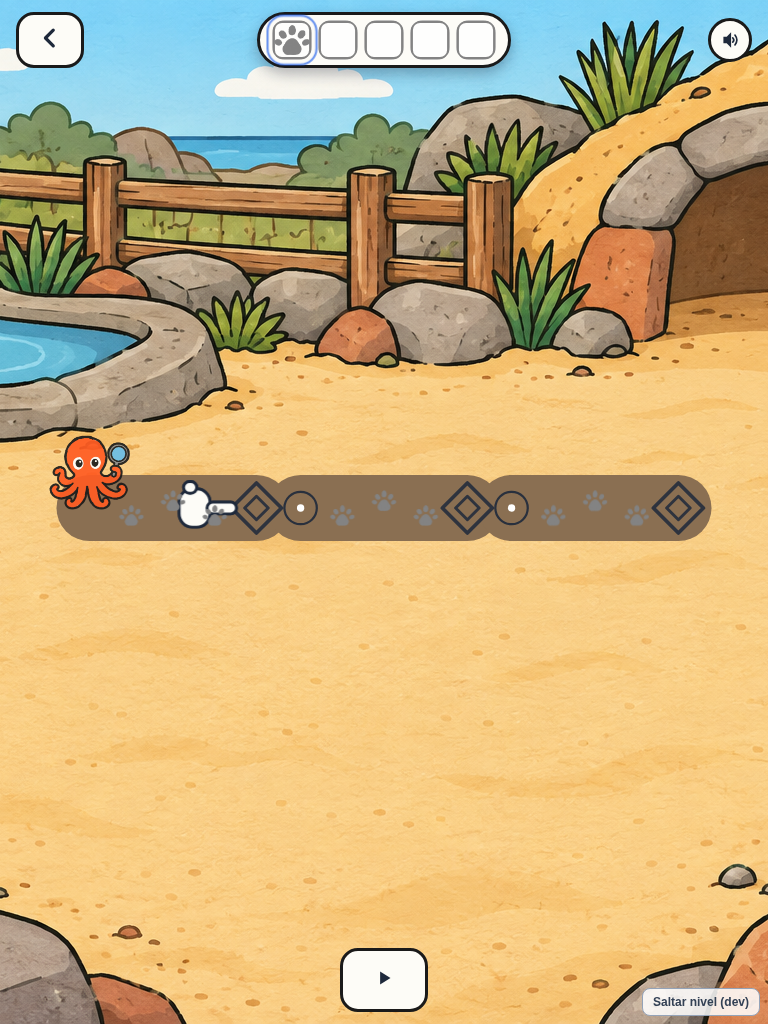
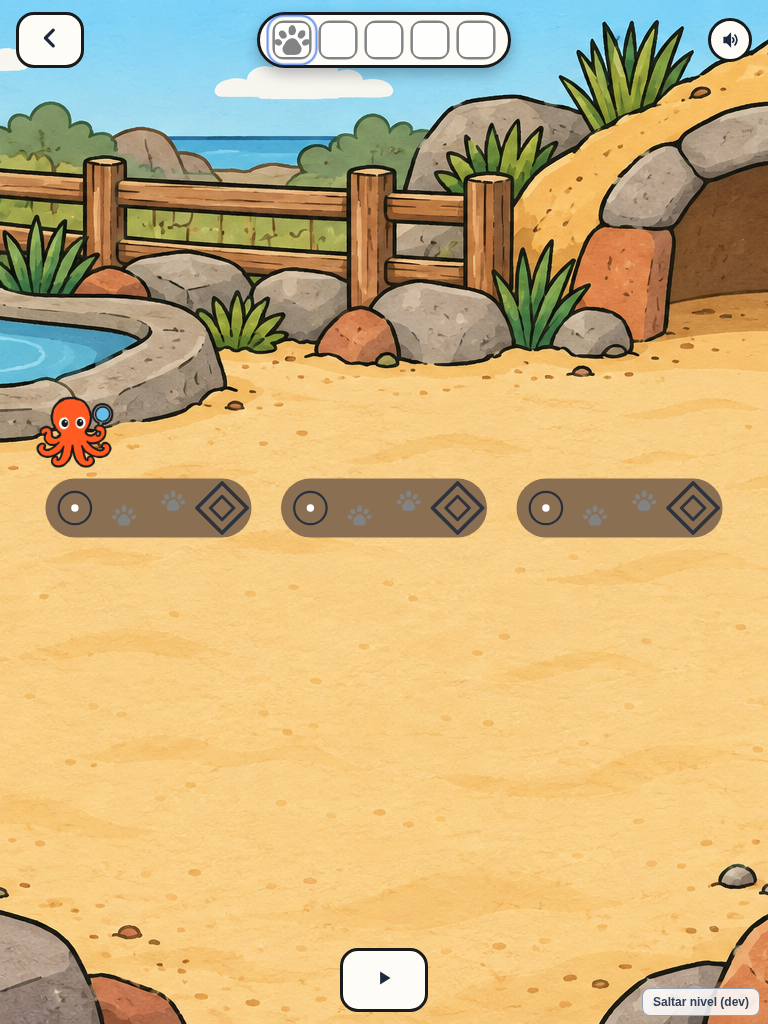
docs(t45): octopus, furrow and ink follow-up; sheep comparison captures and swap steps

Changed region(s): [[0.0312, 0.375, 0.9375, 0.5312]]

diff --git a/odd/tasks/prewriting-stage-completion.md b/odd/tasks/prewriting-stage-completion.md
@@ -158,7 +158,7 @@ The T37 full-journey audit was cut off before its report (183 screenshots in `ca
 | ID | Task | Branch | Status | Evidence |
 |---|---|---|---|---|
 | T44 | docs/21 N1–N4 inside existing cases: duck bridges ∩ with puddles, night trail without walls lit by the flashlight (hedgehog prints C7), fish loops going down (scales), monkey loop+garland in one stroke (banana peel C11) | `feat/new-clue-levels` | in progress | |
-| T45 | docs/21 N5–N6 new cases: sheep fence posts (vertical strokes, wool C9) + "¿Quién deja lana?"; turtle straight line with stops (turtle prints C10) + "¿De quién es esta huella?" comparing prints. Placeholder art until C9/C10 arrive | `feat/new-cases` | done | `94c9156` (code) + docs/captures commit, not merged/pushed. Route: delegated writer. **Engine, segment levels** (`levels/segments.ts`, `LevelConfig.segments`): every path is its own stroke; the release that lands within `startReach` (70) of a segment's start dot, keeps ≥85% of its samples inside the corridor, reaches the end and LIFTS within `stopReach` (55) of the stop completes that segment, latched (`settleSegmentRelease`); approval reads the latch (`releaseOutcome.segments`, the T39 pattern: every segment but the last releases unapproved and clear-on-failed-retry empties the buffer). Only completed strokes stay as ink; a rejected one stays until the next touch clears it. Clue marks per segment (`segmentClueMarks`/`segmentClueState`, `ClueMark.route`) light when their segment is done. `TraceCanvas.routeMarkers`: green start dot + the goal's hollow diamonds per segment (the octopus stands on the first start); no single goal/lamp. `resetOnContact: false`, no hazards (the stop IS the inhibition task; T41's "no hazard on a clue trail / first level" rules stay intact). **Levels**: `sheep-lana` (phase 1, 5 posts x 150→850, y 130→470, corridor 90, one wool per post) before `sheep-hill1`; `turtle-huellas` (phase 2, one furrow x 100→900 at y 300 cut into 3 stretches with 60-unit gaps, corridor 90, prints alternating on both sides) before `turtle1`. Both `enforceOrder: true`, `mustBeContinuous: false` (the phase-2 continuity guard now exempts segment levels), rail off (first contact stays `sheep-hill1`), demo on. **Cases**: `sheep` (form `rescued-silhouettes`, `question` "¿Quién deja lana?", oveja/gato/pato, `ruledOutBy {gato: wool}`, pato rescued; `resolveSheepCase` swaps to "El pato tiene plumas, no lana" if the duck is not rescued yet) and `turtles` (form `prints`, "¿De quién es esta huella?", tortuga/pato/gallina with `optionArt` = turtle print / webfoot C3 / `huella negra` footprint; pato/gallina take the fish case's `rescuedDistractors` exemption, hints say why each print differs). `DetectiveCase.form` on every case; `Deduction` opens with `kase.question`. Adventures recipe A (`deduction.after` = the new level), sectors/JOURNEY entry ids moved to the new levels, intros "Alguien dejó lana enganchada en el alambrado de la ladera. ¿Vamos a ver?" / "Alguien dejó huellas y un surco en la arena. ¿Las seguimos?" (closings unchanged; the notebook shows animals only, unchanged). **Deduction-kind rule** (`zoo/journey.test.ts`): no two NEIGHBOURING journey stops share a form ("seguidas" read as the old rule's "ninguno pegado a otro"); forms in order new → rescued (sheep) → rescued (night, two stops later, llama between) → signs → prints → rescued; the only neighbouring deducing pairs are duck/sheep and turtles/monkeys. **Flag for the author**: sheep and night are consecutive DEDUCTIONS of the same form with the llama between; docs/21 §6's own order elided the night. docs/19 §2.3 table updated. **Placeholders** (`PLACEHOLDER_CLUE_ART`): `wool` borrows the bread crumb pair, `turtlePrint` the hedgehog print pair (both lit/unlit pairs, no pipeline change); `artManifest.test.ts` fails once `pista lana.png`/`pista huella de tortuga.png` exist in `art-source/` while still listed; swap = two `SINGLES` rows + `AUTHORED_SOURCE_SIZES`, run `build_art.py`, replace `WOOL_CLUE_ART`/`TURTLE_PRINT_CLUE_ART` (docs/22 §5.8). **Migration** `migrateNewCases` (after T40's in `openProgressStore`): a filed `sheep-hill1`/`turtle1` seeds `sheep-lana`/`turtle-huellas` (`seedFrom`) and `sheep-deduce`/`turtles-deduce`; idempotent, copy-forward. **Tests**: `levels/segments.test.ts` (judge: direction, stop, overshoot, corridor, reach; latch; generators; both shipped levels: child-like wobbly strokes in random order ≥95% accepted, run-through and scribble rejected, marks per segment), `migrateNewCases.test.ts`, `cases.test.ts` (both cases, every case solvable with a line per wrong pick, question), `journey.test.ts` (rule + order), `levelCompletion.test.ts` + `LevelPlay.test.tsx` (approval only on the last segment; markers per segment), hint guard (`lana`, `huella` → turtlePrint). Checks: `npx vitest run --maxWorkers=2` 112 files / 3084 passed (`artHierarchy`'s 40 s sector test timed out once under load avg ~32, passes alone); `npm run build` exit 0; `git diff --check main...HEAD` clean. **Browser** (Playwright + system chromium `--disable-gpu`, `?dev&nivel=`, no console errors), `capturas/2026-10-02-t45/`: both levels 1024x768 before / wrong-way stroke released (nothing lit) / first segment done (its marks lit) / run past the stop (stays open) / all but last / last done (✓) / advanced into the deduction; 768x1024 before and two segments done; both deductions open, wrong picks (sheep: gato, pato with the not-rescued line since `?dev` has no progress; turtles: pato), solved; both intros at both sizes. Open: the turtle sector's brown channel makes the mud ink faint (same on `turtle1..4`, not changed); the placeholders are not wool/turtle prints. |
+| T45 | docs/21 N5–N6 new cases: sheep fence posts (vertical strokes, wool C9) + "¿Quién deja lana?"; turtle straight line with stops (turtle prints C10) + "¿De quién es esta huella?" comparing prints. Placeholder art until C9/C10 arrive | `feat/new-cases` | done | `94c9156` (code) + docs/captures commit, not merged/pushed. Route: delegated writer. **Engine, segment levels** (`levels/segments.ts`, `LevelConfig.segments`): every path is its own stroke; the release that lands within `startReach` (70) of a segment's start dot, keeps ≥85% of its samples inside the corridor, reaches the end and LIFTS within `stopReach` (55) of the stop completes that segment, latched (`settleSegmentRelease`); approval reads the latch (`releaseOutcome.segments`, the T39 pattern: every segment but the last releases unapproved and clear-on-failed-retry empties the buffer). Only completed strokes stay as ink; a rejected one stays until the next touch clears it. Clue marks per segment (`segmentClueMarks`/`segmentClueState`, `ClueMark.route`) light when their segment is done. `TraceCanvas.routeMarkers`: green start dot + the goal's hollow diamonds per segment (the octopus stands on the first start); no single goal/lamp. `resetOnContact: false`, no hazards (the stop IS the inhibition task; T41's "no hazard on a clue trail / first level" rules stay intact). **Levels**: `sheep-lana` (phase 1, 5 posts x 150→850, y 130→470, corridor 90, one wool per post) before `sheep-hill1`; `turtle-huellas` (phase 2, one furrow x 100→900 at y 300 cut into 3 stretches with 60-unit gaps, corridor 90, prints alternating on both sides) before `turtle1`. Both `enforceOrder: true`, `mustBeContinuous: false` (the phase-2 continuity guard now exempts segment levels), rail off (first contact stays `sheep-hill1`), demo on. **Cases**: `sheep` (form `rescued-silhouettes`, `question` "¿Quién deja lana?", oveja/gato/pato, `ruledOutBy {gato: wool}`, pato rescued; `resolveSheepCase` swaps to "El pato tiene plumas, no lana" if the duck is not rescued yet) and `turtles` (form `prints`, "¿De quién es esta huella?", tortuga/pato/gallina with `optionArt` = turtle print / webfoot C3 / `huella negra` footprint; pato/gallina take the fish case's `rescuedDistractors` exemption, hints say why each print differs). `DetectiveCase.form` on every case; `Deduction` opens with `kase.question`. Adventures recipe A (`deduction.after` = the new level), sectors/JOURNEY entry ids moved to the new levels, intros "Alguien dejó lana enganchada en el alambrado de la ladera. ¿Vamos a ver?" / "Alguien dejó huellas y un surco en la arena. ¿Las seguimos?" (closings unchanged; the notebook shows animals only, unchanged). **Deduction-kind rule** (`zoo/journey.test.ts`): no two NEIGHBOURING journey stops share a form ("seguidas" read as the old rule's "ninguno pegado a otro"); forms in order new → rescued (sheep) → rescued (night, two stops later, llama between) → signs → prints → rescued; the only neighbouring deducing pairs are duck/sheep and turtles/monkeys. **Flag for the author**: sheep and night are consecutive DEDUCTIONS of the same form with the llama between; docs/21 §6's own order elided the night. docs/19 §2.3 table updated. **Placeholders** (`PLACEHOLDER_CLUE_ART`): `wool` borrows the bread crumb pair, `turtlePrint` the hedgehog print pair (both lit/unlit pairs, no pipeline change); `artManifest.test.ts` fails once `pista lana.png`/`pista huella de tortuga.png` exist in `art-source/` while still listed; swap = two `SINGLES` rows + `AUTHORED_SOURCE_SIZES`, run `build_art.py`, replace `WOOL_CLUE_ART`/`TURTLE_PRINT_CLUE_ART` (docs/22 §5.8). **Migration** `migrateNewCases` (after T40's in `openProgressStore`): a filed `sheep-hill1`/`turtle1` seeds `sheep-lana`/`turtle-huellas` (`seedFrom`) and `sheep-deduce`/`turtles-deduce`; idempotent, copy-forward. **Tests**: `levels/segments.test.ts` (judge: direction, stop, overshoot, corridor, reach; latch; generators; both shipped levels: child-like wobbly strokes in random order ≥95% accepted, run-through and scribble rejected, marks per segment), `migrateNewCases.test.ts`, `cases.test.ts` (both cases, every case solvable with a line per wrong pick, question), `journey.test.ts` (rule + order), `levelCompletion.test.ts` + `LevelPlay.test.tsx` (approval only on the last segment; markers per segment), hint guard (`lana`, `huella` → turtlePrint). Checks: `npx vitest run --maxWorkers=2` 112 files / 3084 passed (`artHierarchy`'s 40 s sector test timed out once under load avg ~32, passes alone); `npm run build` exit 0; `git diff --check main...HEAD` clean. **Browser** (Playwright + system chromium `--disable-gpu`, `?dev&nivel=`, no console errors), `capturas/2026-10-02-t45/`: both levels 1024x768 before / wrong-way stroke released (nothing lit) / first segment done (its marks lit) / run past the stop (stays open) / all but last / last done (✓) / advanced into the deduction; 768x1024 before and two segments done; both deductions open, wrong picks (sheep: gato, pato with the not-rescued line since `?dev` has no progress; turtles: pato), solved; both intros at both sizes. Open: the turtle sector's brown channel makes the mud ink faint (same on `turtle1..4`, not changed); the placeholders are not wool/turtle prints. **Follow-up 1 (coordinator review of the captures)** `fb968af`: the octopus stood on the first start dot. `segmentStandPoint` (`levels/segments.ts`) puts his feet at the nearest spot to the first start whose standing box stays on the sheet and clear of every segment's corridor box (start dot, stop diamonds and clues all sit inside it), live corridor first, authored one as fallback; every segment, the first included, now has its own start dot. `sheep-lana` posts shifted to 210-850 (centred 180-820, 160 apart, 70 of sheet between corridors) to give him room. `turtle-huellas`: 120-unit gaps and an 80 corridor, so 40 units of sand separate stretches and each stop mark ends before the next start dot. Ink: on a world level the mud (luma 112) vanished into the turtles' `WET_SAND_HOLLOW` channel (116); `worldInk` takes the backdrop's own ink (`TORCH_CHALK`, what `turtle1..4` already draw) wherever the mud fails the 55-luma law against the channel. Tests: octopus box misses every start/stop/clue/corridor on both levels, stretch gap ≥30 and marks apart, `worldInk` cases, ink ≥55 luma from the channel on `turtle-huellas` and `turtle1..4`. **Follow-up 2 (author's decision)** `f497328`: the sheep deduction is a comparison, "¿De quién es esta lana?": three samples, the wool (`CLUE_ART.wool`), a duck feather (C2 `duckFeather`) and cat fur (`CAT_FUR_SAMPLE_ART`, the cat's lineup silhouette until `art-source/pista pelo de gato.png` exists; `PLACEHOLDER_SAMPLE_SOURCES`, same `artManifest.test.ts` guard; swap in docs/22 §5.8, new C13 row in §2). Lines "Eso es una pluma de pato: no es lana." / "Eso es pelo de gato: no es lana."; `resolveSheepCase` removed (nothing progress-dependent left). Forms: samples and prints are ONE form, `comparison` (both are "which is the same as mine?"); comparison cases rule distractors out by the picture (`cases.test.ts` exempts them instead of reusing `rescuedDistractors`). Journey rule now as the author meant it: consecutive DEDUCTIONS, ignoring stops that ask none, never share a form; sequence duck new-silhouettes → sheep comparison → night rescued → fish signs → turtles comparison → monkeys rescued — holds, nothing to report. docs/19 §2.3 and docs/21 updated. Checks (after both): vitest 112 files / 3091 passed; build exit 0; `git diff --check main...HEAD` clean. Captures re-taken one browser at a time (no console errors), replacing the earlier ones in `capturas/2026-10-02-t45/`: both levels' flows at 1024x768 and 768x1024 (octopus clear, separate stretches, light ink on the turtles' channel), `deduction-sheep-*` open / wrong pato / wrong gato / solved and 768x1024 open, `deduction-turtles-*` open / wrong pato / solved and 768x1024 open; `sheep-lana-1024x768-7-after-advance` lands on the new question. Open: the wool and cat-fur placeholders are not wool or fur. |
 
 ## Later batches (planned, not started)
 

diff --git a/docs/19_PROPUESTA_HISTORIA_Y_MECANICAS.md b/docs/19_PROPUESTA_HISTORIA_Y_MECANICAS.md
@@ -97,11 +97,13 @@ Y cuatro palancas más:
 - **Pistas distintas en cada caso.** Nunca el mismo objeto en dos casos.
 - **Cuatro formas de deducir**: siluetas de animales nuevos (pato); siluetas
   que incluyen animales **ya rescatados**, que se descartan solos ("¿El pato?
-  No: el pato ya está en su laguna", en la noche, las ovejas y los monos); los
+  No: el pato ya está en su laguna", en la noche y los monos); los
   **carteles de los recintos vacíos del prólogo** (peces: "¿De qué recinto se
-  escaparon?"); y, desde T45, **comparar huellas** (tortugas, `docs/21` N6:
-  "¿De quién es esta huella?", tortuga, pato y gallina).
-- **Nunca la misma forma de deducir dos veces seguidas** en el recorrido (ver la columna de abajo). Antes la regla era "nunca dos deducciones seguidas"; la autora la cambió el 2026-10-02 (decisión 1 de `docs/21` §6) para sumar los casos de ovejas (N5) y tortugas (N6). "Seguidas" quiere decir lo mismo que antes: dos paradas vecinas del recorrido. Las ovejas y la noche deducen igual, pero entre las dos están las llamas.
+  escaparon?"); y, desde T45, **comparar muestras**: tres al lado de la pista
+  juntada, y se elige la igual (ovejas: lana, pluma de pato y pelo de gato,
+  "¿De quién es esta lana?"; tortugas: tres huellas, "¿De quién es esta
+  huella?"). Comparar lana y comparar huellas es la misma forma.
+- **Nunca la misma forma de deducir dos veces seguidas** en el recorrido (ver la columna de abajo). Antes la regla era "nunca dos deducciones seguidas"; la autora la cambió el 2026-10-02 (decisión 1 de `docs/21` §6) para sumar los casos de ovejas (N5) y tortugas (N6). "Seguidas" son dos deducciones consecutivas del recorrido, sin contar las paradas que no deducen (la autora, 2026-10-02): pato (siluetas nuevas), ovejas (comparar), noche (descarte), peces (carteles), tortugas (comparar), monos (descarte). `zoo/journey.test.ts` lo exige.
 - **Lo que se junta cambia de forma**: objetos, animales, color, espinas, polen.
 
 El recorrido completo, en el orden de `zoo/journey.ts`:
@@ -109,7 +111,7 @@ El recorrido completo, en el orden de `zoo/journey.ts`:
 | # | Aventura | Receta | Deducción | Qué se junta o se restaura |
 |---|---|---|---|---|
 | 1 | Pato | A | Siluetas: pato, gallina, gato | Pistas; después la familia de patos |
-| 2 | Ovejas | A (T45) | Siluetas: oveja, gato, pato (el pato, ya rescatado, se descarta solo). "¿Quién deja lana?" | La lana del alambrado (`sheep-lana`); después una oveja por pico |
+| 2 | Ovejas | A (T45) | Comparar: lana, pluma de pato, pelo de gato. "¿De quién es esta lana?" | La lana del alambrado (`sheep-lana`); después una oveja por pico |
 | 3 | Llamas | B | — | Las llamas en los picos altos, con el gorro de pastor |
 | 4 | Noche | A (pistas) | Siluetas: erizo, pato, oveja (dos ya rescatados) | Las cosas del erizo; al final, el erizo |
 | 5 | Erizo | C | — | Sus espinas |
@@ -117,12 +119,11 @@ El recorrido completo, en el orden de `zoo/journey.ts`:
 | 7 | Abeja | D | — | El polen de cada flor, y al panal |
 | 8 | Peces | A | Carteles: PECES, TORTUGAS, MONOS | Pistas; después los peces |
 | 9 | Delfines | B | — | Cada delfín que pasás se suma a la fila |
-| 10 | Tortugas | A (T45) | Huellas: tortuga, pato, gallina. "¿De quién es esta huella?" | Las huellas del surco (`turtle-huellas`); después cada vuelta hace asomar una tortuga |
+| 10 | Tortugas | A (T45) | Comparar huellas: tortuga, pato, gallina. "¿De quién es esta huella?" | Las huellas del surco (`turtle-huellas`); después cada vuelta hace asomar una tortuga |
 | 11 | Monos | A | Siluetas: mono, erizo, abeja | Pistas; después los monos |
 
 Seis casos completos en once aventuras desde T45 (antes cuatro, ninguno
-pegado a otro). Dos pares quedan pegados (pato y ovejas, tortugas y monos), y
-en los dos la forma de deducir cambia; `zoo/journey.test.ts` lo exige. La noche y
+pegado a otro), y dos deducciones seguidas nunca usan la misma forma. La noche y
 el erizo son **un solo caso repartido en dos aventuras**: la noche junta las
 pistas y encuentra al erizo; el erizo es el rescate.
 

diff --git a/docs/22_PROMPTS_ARTE_PISTAS.md b/docs/22_PROMPTS_ARTE_PISTAS.md
@@ -105,6 +105,7 @@ imagen esté guardada y pase su checklist.
 | C7 | `pista huellita de erizo.png` | Huellita de erizo | noche: `night-rastro` | media | hecho (T43: registrada; `night-rastro` no existe todavía) | — |
 | B12 | ver `docs/20` §6 | Manzana y hongo | noche: `night2`, `night3` | media | hecho (T43: en el juego) | `piedra.png` (en la noche) |
 | C9 | `pista lana.png` | Mechón de lana | ovejas: `sheep-lana` | media (decisión 1 aprobada 2026-10-02) | pendiente (T45: el nivel existe y usa un reemplazo provisorio, §5.8) | — |
+| C13 | `pista pelo de gato.png` | Mechón de pelo de gato | ovejas: la deducción "¿De quién es esta lana?" (una de las tres muestras) | media (decisión de la autora, 2026-10-02) | pendiente (T45: la deducción usa la silueta del gato, §5.8). Falta escribir el pedido | — |
 | C10 | `pista huella de tortuga.png` | Huella de tortuga | tortugas: `turtle-huellas` y su deducción | media (decisión 1 aprobada 2026-10-02) | pendiente (T45: el nivel existe y usa un reemplazo provisorio, §5.8) | — |
 
 ---
@@ -845,6 +846,16 @@ Para la sesión que meta las imágenes en el juego.
    y el tipo siga en `PLACEHOLDER_CLUE_ART`, así que el cambio no se olvida.
    La lana va con `'contour'`: sumarla a la lista de pistas de color medido
    de `artManifest.test.ts`.
+
+   El **pelo de gato** (C13) no es una pista de camino: es una de las tres
+   muestras de la deducción de las ovejas (lana, pluma de pato C2, pelo de
+   gato). Hoy usa la silueta del gato (`CAT_FUR_SAMPLE_ART`,
+   `PLACEHOLDER_SAMPLE_SOURCES`). Cuando exista `art-source/pista pelo de
+   gato.png`: una fila `('pista pelo de gato.png', 'sample-cat-fur.png',
+   256, 'contour', True)` en `SINGLES` más su `AUTHORED_SOURCE_SIZES`,
+   correr el pipeline, apuntar `CAT_FUR_SAMPLE_ART` al archivo nuevo (con su
+   `w`/`h`) y sacarlo de `PLACEHOLDER_SAMPLE_SOURCES`. La misma guarda de
+   `artManifest.test.ts` avisa.
 
 ---
 

diff --git a/docs/21_HABILIDADES_PREESCRITURA.md b/docs/21_HABILIDADES_PREESCRITURA.md
@@ -276,7 +276,9 @@ puede tener más).
 > su deducción cada uno. Los dos son niveles de tramos (`levels/segments.ts`):
 > cada poste o tramo es un trazo propio que se acepta al levantar el dedo en
 > su parada. La lana y la huella de tortuga usan un dibujo prestado hasta que
-> lleguen C9 y C10 (`docs/22` §5.8).
+> lleguen C9 y C10 (`docs/22` §5.8). La deducción de las ovejas cambió por
+> decisión de la autora: compara tres muestras ("¿De quién es esta lana?":
+> lana, pluma de pato, pelo de gato) en vez de siluetas con descarte.
 
 N5 le da a las ovejas un trabajo propio y quita parte de la redundancia con
 las llamas. N6 estrena una **cuarta forma de deducir** (comparar huellas), que
